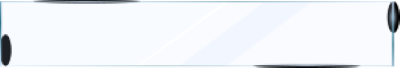
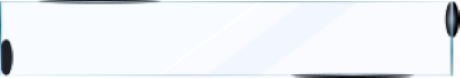
commit 7
Again playing with the layout., Experiencing issues with rooter location

diff --git a/stylesheet.css b/stylesheet.css
@@ -1,13 +1,4 @@
-{
-  margin: 0;
-  padding: 0;
-}
-
-/* Set default font-family and background color */
 body {
-  font-family: 'Mulish', sans-serif;
-  background-color: black;
-  color: white;
   font-family: 'Mulish', sans-serif;
   background-color: black;
   color: white;
@@ -16,9 +7,6 @@ body {
   margin-bottom: 0px;
   margin-left: 0px;
 }
-
-/* Top bar styles */
-/* Add your existing CSS styles here */
 
 /* Top bar styles */
 .top-bar {
@@ -64,47 +52,46 @@ body {
   font-weight: 600;
 }
 
-/* Add your other CSS rules here */
-
 .center-image {
   display: flex;
   justify-content: center;
-  align-items: center;
-  margin-top: -170px;
+  align-items: center; 
 }
 
 .center-image img {
   max-width: 100%;
   height: auto;
 }
+
 .hero {
   height: 30%;
-  min-height: 0; /* Remove the min-height */
+  min-height: 0;
   position: relative;
- 
   background-color: transparent;
-  /* Set the container's aspect ratio using padding-top */
-  padding-top: 43%; /* Adjust this percentage to fit the border within the new size */
+  padding-top: 43%;
 }
+
 .hero-content {
   text-align: center;
   color: #0ac7e7;
   position: absolute;
-  top: 50%; /* Center the content vertically */
-  left: 50%; /* Center the content horizontally */
+  top: 50%;
+  left: 50%;
   transform: translate(-50%, -50%);
-  z-index: 1; /* Ensure the text is on top of the image */
+  z-index: 1;
 }
+
 .hero-image {
   position: absolute;
   top: 0;
   left: 0;
   width: 100%;
   background-image: url("./WRH.png");
-  background-size: cover; /* Make the background image cover the container */
-  background-position: center; /* Center the background image horizontally and vertically */
- box-shadow: 4px 0px 19px 10px rgba(35 162 175);
+  background-size: cover;
+  background-position: center;
+  box-shadow: 4px 0px 19px 10px rgba(35 162 175);
 }
+
 .hero-heading {
   color: #FFF;
   font-family: 'Mulish', sans-serif;
@@ -115,56 +102,20 @@ body {
   margin-top: -300px;
 }
 
-
-.hero-paragraph {
-  font-family: 'Mulish', sans-serif;
-  font-size: 20px;
-  font-weight: 400;
-  line-height: 1.5;
-}
-
-/* Add your other CSS rules here */
-
-/* Media query for responsiveness */
-@media screen and (max-width: 768px) {
-  .hero-content {
-    /* For smaller screens, adjust the top value to keep the content centered */
-    top: 40%;
-  }
-}
-
-/* Media query for even smaller screens (optional) */
-@media screen and (max-width: 480px)
-  .hero-content {
-    /* For even smaller screens, adjust the top value further to keep the content centered */
-    top: 30%;
-
-
-  .glass-border {
-    border-width: 3px;
-    border-style: solid;
-    border-image: url("./boarder.png") 30 fill;
-  }
-  
-.h2 { 
-  margin-top: -74px; margin-left: 60px;
-
-}
-}
-/* Add your existing CSS styles here */
-
 /* Separate styles for the three-column layout */
 .columns-container {
+  padding: 20px;
   width: 100%;
-  margin-top: 20px;
   display: grid;
-  grid-template-columns: repeat(2, 1fr); /* Two columns side by side on larger screens */
-  gap: 20px; /* Add some spacing between columns */
+  grid-template-columns: repeat(2, 1fr);
+  gap: 53px;
 }
 
-.left-right-columns {
-  display: flex;
-  gap: 20px; /* Add some spacing between left and right columns */
+.title {
+  margin-bottom: 70px;
+  font-size: 24px;
+  color: #F23580;
+  text-align: center;
 }
 
 .left-column,
@@ -174,6 +125,8 @@ body {
   border-image: linear-gradient(31deg, rgba(207, 229, 255, 0.90) 0%, rgba(42, 114, 136, 0.90) 25%, rgba(207, 229, 255, 0.90) 50%, rgba(42, 114, 136, 0.90) 75%, rgba(207, 229, 255, 0.90) 100%);
   border-image-slice: 1;
   padding: 20px;
+  text-decoration-color: black;
+  font-size: 14px;
 }
 
 .left-column,
@@ -181,20 +134,67 @@ body {
   flex: 1;
 }
 
-..third-column {
-  width: 100%; /* Take full width minus margin and border */
-  margin: 0 auto; /* Center the third column horizontally */
+.third-column {
+  width: 100%;
+  margin: 0 auto;
+  background-color: #FFF;
 }
 
-/* Media query for responsiveness */
-@media screen and (max-width: 768px) {
-  .hero-content {
-    /* For smaller screens, adjust the top value to keep the content centered */
-    top: 40%;
-  }
+.third-column .text {
+  color: black;
+  font-size: 14px;
+}
 
-  /* On smaller screens, switch to a single column layout */
-  .columns-container {
-    grid-template-columns: 1fr; /* Single column */
-  }
+/* Make the "glass" image expand with its parent content */
+.glass {
+  display: flex;
+  flex-direction: column;
+  justify-content: center;
+  align-items: center;
+}
+
+.content-wrapper {
+  display: flex;
+  flex-direction: column;
+  min-height: 100vh;
+}
+
+/* Footer styles */
+.footer {
+  background-color: black;
+  color: white;
+  padding: 30px;
+ 
+}
+
+.footer .container {
+  display: flex;
+  align-items: center;
+  justify-content: space-between;
+}
+
+.footer-logo img {
+  width: 40px; /* Adjust the width as needed */
+  height: auto;
+}
+
+.footer-navigation {
+  display: flex;
+  list-style: none;
+}
+
+.footer-navigation li {
+  margin-left: 20px;
+}
+
+.footer-navigation a {
+  color: white;
+  text-decoration: none;
+  font-size: 16px;
+  font-weight: 500;
+}
+
+/* Additional Responsive Styles */
+@media (max-width: 768px) {
+  /* Add responsive styles if needed */
 }

diff --git a/index.html b/index.html
@@ -6,8 +6,9 @@
   <link href="https://fonts.googleapis.com/css2?family=Mulish:wght@400;700&display=swap" rel="stylesheet">
   <meta name="viewport" content="width=device-width, initial-scale=1.0"> 
 </head>
-<body>
-  <header class="top-bar">
+<body> 
+  <div class="content-wrapper">
+   <header class="top-bar">
     <div class="container">
       <div class="logo">
         <img src="./IconOnly_Transparent_NoBuffer.png" alt="Logo"> 
@@ -22,7 +23,6 @@
       </ul>
     </div>
   </header>
-
   <div class="hero">
     <div class="container">
       <div class="hero-content">
@@ -30,6 +30,7 @@
         <p id="smallblue">UX/UI Designer</p> 
       </div>
       <img src="./WRH.png" class="hero-image">
+    </div>
     </div>
   </div>
 
@@ -40,6 +41,7 @@
       <div class="container">
     <div class="columns-container">
       <div class="column left-column">
+        <img class="glass" src="./boarder.png"> 
         <div class="title">Revitalizing Compassion</div>
         <img class="image" src="./Screenshot 2023-07-06 182859 1.png" alt="Image 1">
         <img class="image" src="./Roger Neilson House p2 desktop.png" alt="Image 2">
@@ -49,26 +51,41 @@
     </div>
 
     <div class="column right-column">
+      <img class="glass" src="./boarder.png"> 
       <div class="title">Transforming the Digital Frontier</div>
       <img class="image" src="./Government of Interiors Mobile.png" alt="Image 3">
       <img class="image" src="./▶ Page 1 - Untitled.png" alt="Image 4">
       <div class="text">
         The non-profit organization's website faced issues with cluttered navigation, outdated information, and limited resource access. Steps taken to address the problem included a heuristic analysis and usability testing. Insights led to a redesign of the information architecture, improvements in the footer design, and the creation of mockups and a UI style guide. The resulting solution aimed to provide a clearer purpose, intuitive navigation, and easier access to resources. Future steps involve finalizing prototypes and perfecting the footer design.
-
-
-      </div>
-  </div>
+       </div>
+    </div>
 
   <div class="third-column">
+    <img class="glass" src="./boarder.png"> 
     <div class="title">Designing Smart Reciepes</div>
+    <img class="image" src="./Homechef1mobile.png">
     <img class="image" src="./Screenshot 2023-07-08 084222.png" alt="Image 5">
     <img class="image" src="./Screenshot 2023-07-08 084613.png" alt="Image 6">
     <div class="text">
       This case study addresses the problem of people struggling to find new and exciting recipes that cater to their food preferences. The proposed solution is an AI-powered mobile application that generates personalized recipes based on users' dietary preferences, available ingredients, and desired meal types. The app aims to provide a convenient and time-efficient way for users to discover and plan diverse and nutritious meals. By using the app, users can save time, broaden their culinary horizons, improve their nutrition knowledge, and efficiently organize their meal preparations. The focus is on creating a seamless and enjoyable user experience while helping users achieve their goals of learning new recipes, saving money on groceries, trying new dishes, and managing their time effectively.
 
+      </div>
+     </div>
+   </div>
+   
+  <footer class="footer">
+    <div class="container">
+      <div class="footer-logo">
+        <img src="./IconOnly_Transparent_NoBuffer.png" alt="Footer Logo">
+      </div>
+      <ul class="footer-navigation">
+        <li><a href="#">Home</a></li>
+        <li><a href="#">Projects</a></li>
+        <li><a href="#">About</a></li>
+        <li><a href="#">Resume</a></li>
+        <li><a href="#">Contact</a></li>
+      </ul>
     </div>
-  </div>
- 
-
+  </footer>
 </body>
 </html>
